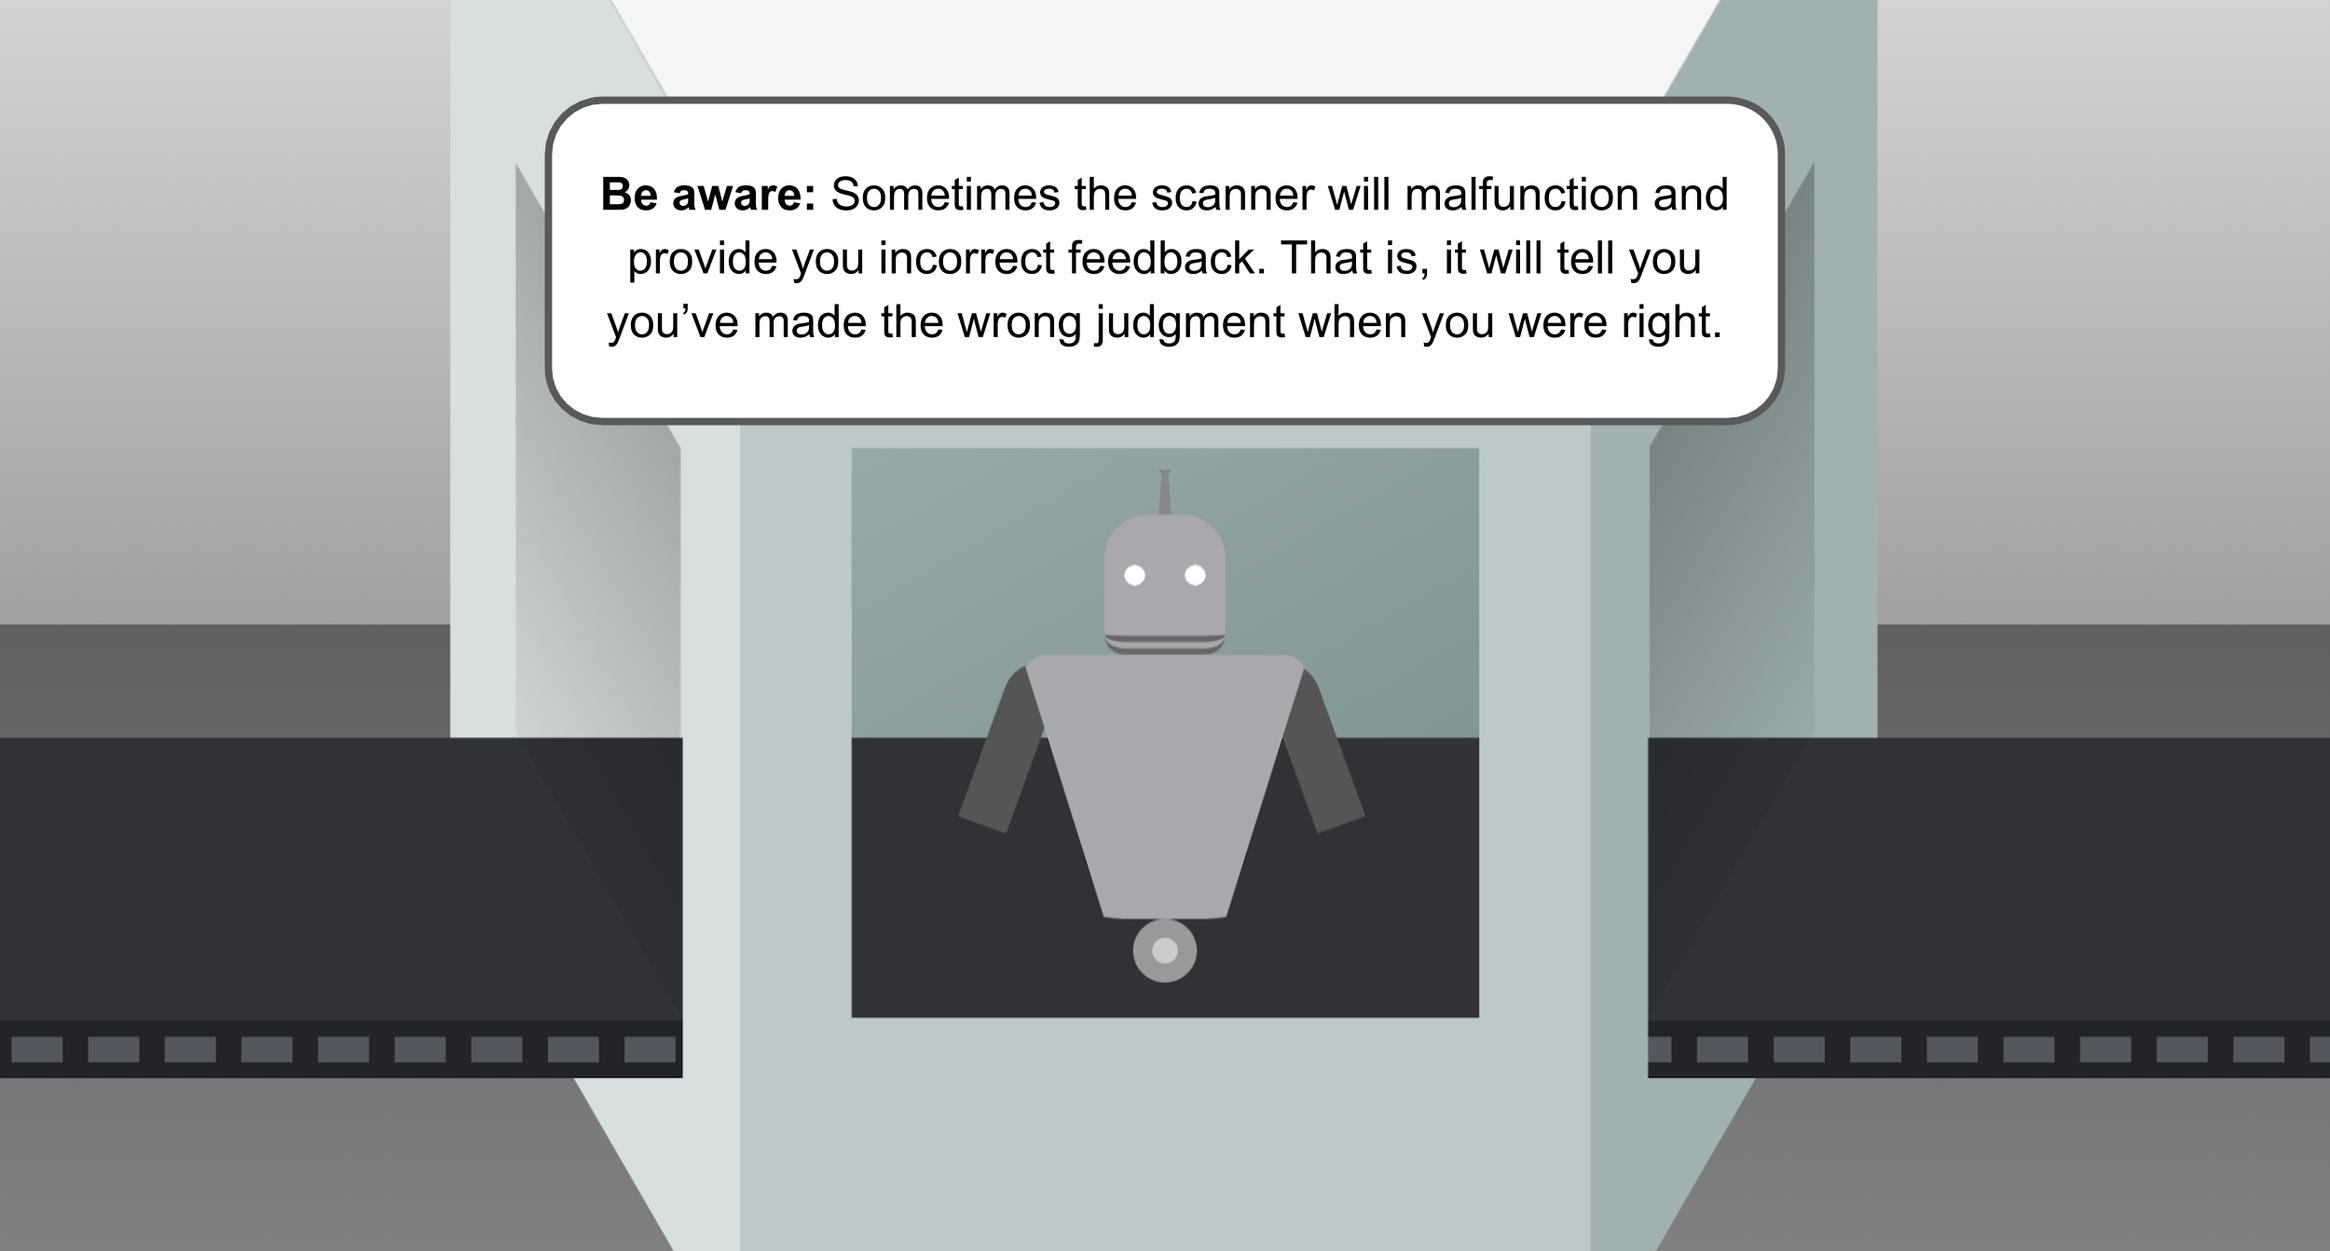
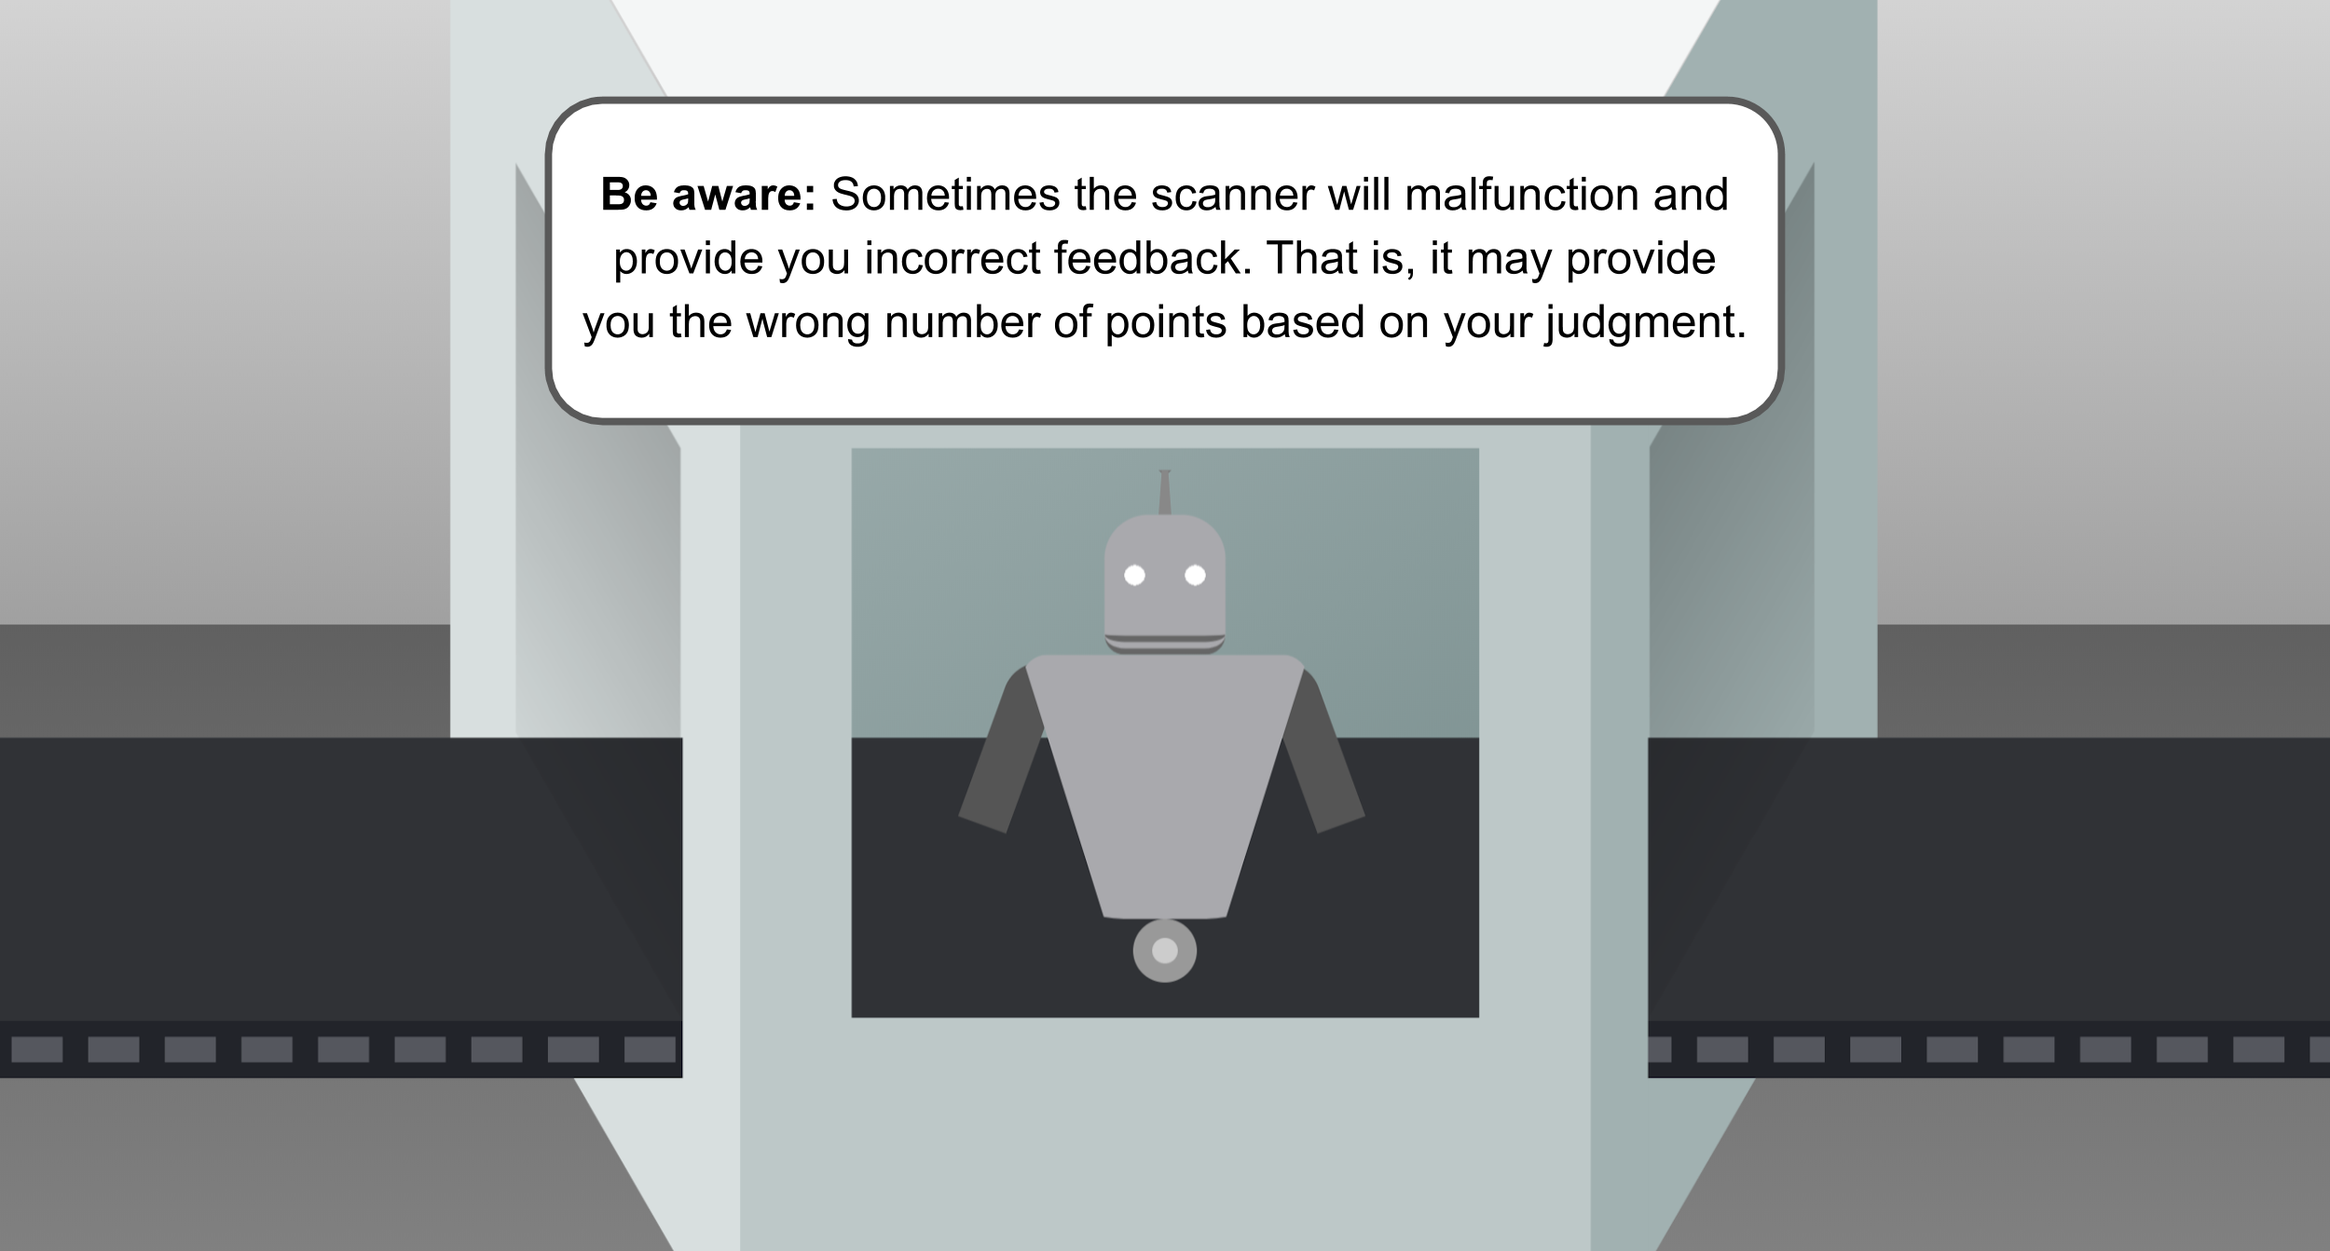
minor fixes: 1) informative readme 2) updated comprehension check (prob feedback) 3) updated emails

Changed region(s): [[0.2496, 0.1832, 0.7488, 0.2748]]

diff --git a/app/static/js/jspsych-pit-comprehension.js b/app/static/js/jspsych-pit-comprehension.js
@@ -6,7 +6,7 @@ jsPsych.plugins['pit-comprehension'] = (function() {
   var plugin = {};
 
   plugin.info = {
-    name: 'survey-multi-choice',
+    name: 'pit-comprehension',
     description: '',
     parameters: {
       button_label: {
@@ -51,7 +51,7 @@ jsPsych.plugins['pit-comprehension'] = (function() {
       -webkit-transform: translate3d(-50%, -65%, 0);
       transform: translate3d(-50%, -65%, 0);
       width: 70vh;
-      height: 45vh;
+      height: 50vh;
       background: #ffffff;
       border: 2px solid black;
       border-radius: 12px;
@@ -117,7 +117,7 @@ jsPsych.plugins['pit-comprehension'] = (function() {
 
     // Show preamble text
     html += '<div class="comprehension-box">'
-    html += '<div class="jspsych-survey-multi-choice-preamble"><h4 style="font-size: 2vh;">Please answer the questions below:</div>';
+    html += '<div class="jspsych-survey-multi-choice-preamble"><h4 style="font-size: 2vh; margin-block-start: 0.5em; margin-block-end: 0.5em">Please answer the questions below:</div>';
 
     // Initialize form element
     html += '<form id="jspsych-survey-multi-choice-form">';
@@ -229,22 +229,48 @@ jsPsych.plugins['pit-comprehension'] = (function() {
     html += '<div id="jspsych-survey-multi-choice-3" class="jspsych-survey-multi-choice-question jspsych-survey-multi-choice-horizontal" data-name="bonus">';
 
     // Add question text
-    html += '<p class="jspsych-survey-multi-choice-text survey-multi-choice">Will the number of points I earn affect performance bonus?</p>';
+    html += '<p class="jspsych-survey-multi-choice-text survey-multi-choice"><i>True</i> or <i>False</i>: the scanner will sometimes malfunction and provide incorrect feedback.</p>';
 
     // Option 1: Yes
     html += '<div id="jspsych-survey-multi-choice-option-3-0" class="jspsych-survey-multi-choice-option">';
-    html += '<input type="radio" name="jspsych-survey-multi-choice-response-3" id="jspsych-survey-multi-choice-response-3-0" value="Yes" required>';
-    html += '<label class="jspsych-survey-multi-choice-text" for="jspsych-survey-multi-choice-response-3-0">Yes</label>';
+    html += '<input type="radio" name="jspsych-survey-multi-choice-response-3" id="jspsych-survey-multi-choice-response-3-0" value="True" required>';
+    html += '<label class="jspsych-survey-multi-choice-text" for="jspsych-survey-multi-choice-response-3-0">True</label>';
     html += '</div>';
 
     // Option 2: No
     html += '<div id="jspsych-survey-multi-choice-option-3-1" class="jspsych-survey-multi-choice-option">';
-    html += '<input type="radio" name="jspsych-survey-multi-choice-response-3" id="jspsych-survey-multi-choice-response-3-1" value="No" required>';
-    html += '<label class="jspsych-survey-multi-choice-text" for="jspsych-survey-multi-choice-response-3-1">No</label>';
+    html += '<input type="radio" name="jspsych-survey-multi-choice-response-3" id="jspsych-survey-multi-choice-response-3-1" value="False" required>';
+    html += '<label class="jspsych-survey-multi-choice-text" for="jspsych-survey-multi-choice-response-3-1">False</label>';
     html += '</div>';
 
     // Close item
     html += '<br><p id="Q4-error"></p>'
+    html += '</div>';
+
+    // ---------------------------------- //
+    // Comprehension Question #5          //
+    // ---------------------------------- //
+
+    // Initialize item
+    html += '<div id="jspsych-survey-multi-choice-4" class="jspsych-survey-multi-choice-question jspsych-survey-multi-choice-horizontal" data-name="bonus">';
+
+    // Add question text
+    html += '<p class="jspsych-survey-multi-choice-text survey-multi-choice">Will the number of points I earn affect performance bonus?</p>';
+
+    // Option 1: Yes
+    html += '<div id="jspsych-survey-multi-choice-option-4-0" class="jspsych-survey-multi-choice-option">';
+    html += '<input type="radio" name="jspsych-survey-multi-choice-response-4" id="jspsych-survey-multi-choice-response-4-0" value="Yes" required>';
+    html += '<label class="jspsych-survey-multi-choice-text" for="jspsych-survey-multi-choice-response-4-0">Yes</label>';
+    html += '</div>';
+
+    // Option 2: No
+    html += '<div id="jspsych-survey-multi-choice-option-4-1" class="jspsych-survey-multi-choice-option">';
+    html += '<input type="radio" name="jspsych-survey-multi-choice-response-4" id="jspsych-survey-multi-choice-response-4-1" value="No" required>';
+    html += '<label class="jspsych-survey-multi-choice-text" for="jspsych-survey-multi-choice-response-4-1">No</label>';
+    html += '</div>';
+
+    // Close item
+    html += '<br><p id="Q5-error"></p>'
     html += '</div>';
 
     // End HTML
@@ -263,6 +289,7 @@ jsPsych.plugins['pit-comprehension'] = (function() {
     const Q2 = document.getElementById("Q2-error");
     const Q3 = document.getElementById("Q3-error");
     const Q4 = document.getElementById("Q4-error");
+    const Q5 = document.getElementById("Q5-error");
     var count = 0;
 
     // Detect changes on first comprehension item
@@ -365,7 +392,7 @@ jsPsych.plugins['pit-comprehension'] = (function() {
       var val = display_element.querySelector('#jspsych-survey-multi-choice-3 input:checked').value;
 
       // Validation
-      if (val === "Yes") {
+      if (val === "True") {
 
         // Update text
         Q4.innerHTML = "";
@@ -374,7 +401,7 @@ jsPsych.plugins['pit-comprehension'] = (function() {
       } else {
 
         // Update text
-        Q4.innerHTML = "That's incorrect. Your bonus will reflect your performance on the task.";
+        Q4.innerHTML = "That's incorrect. The scanner will sometimes provide incorrect feedback.";
         Q4.className = "invalid"
 
         // Restart animation
@@ -389,9 +416,41 @@ jsPsych.plugins['pit-comprehension'] = (function() {
 
     })
 
+
+    // Detect changes on third comprehension item
+    display_element.querySelector('#jspsych-survey-multi-choice-4').addEventListener('change', function(){
+
+      // On change, find which item is checked.
+      var val = display_element.querySelector('#jspsych-survey-multi-choice-4 input:checked').value;
+
+      // Validation
+      if (val === "Yes") {
+
+        // Update text
+        Q5.innerHTML = "";
+        Q5.className = "valid"
+
+      } else {
+
+        // Update text
+        Q5.innerHTML = "That's incorrect. Your bonus will reflect your performance on the task.";
+        Q5.className = "invalid"
+
+        // Restart animation
+        Q5.style.animation = 'none';
+        Q5.offsetHeight; /* trigger reflow */
+        Q5.style.animation = null;
+
+        // Increment error count
+        count += 1;
+
+      }
+
+    })
+
     // Detect if all correct answers
     display_element.addEventListener('change', function(){
-      if (Q1.className === 'valid' && Q2.className === 'valid' && Q3.className === 'valid' && Q4.className === 'valid') {
+      if (Q1.className === 'valid' && Q2.className === 'valid' && Q3.className === 'valid' && Q4.className === 'valid' && Q5.className === 'valid') {
         document.getElementById("jspsych-survey-multi-choice-next").disabled = false;
       } else {
         document.getElementById("jspsych-survey-multi-choice-next").disabled = true;
@@ -408,7 +467,7 @@ jsPsych.plugins['pit-comprehension'] = (function() {
 
       // Gather responses
       var question_data = {};
-      for (var i=0; i<3; i++) {
+      for (var i=0; i<4; i++) {
 
         // Find matching question.
         var match = display_element.querySelector('#jspsych-survey-multi-choice-'+i);

diff --git a/app/static/js/jspsych-survey-debrief.js b/app/static/js/jspsych-survey-debrief.js
@@ -132,11 +132,11 @@ jsPsych.plugins['survey-debrief'] = (function() {
     html += '<div class="row">';
     html += '<div class="debrief-prompt"><label for="country">How difficult was the task?</label></div>';
     html += '<div class="debrief-resp">';
-    html += '<label><input type="radio" name="difficulty" value="1" required>Very easy</label><br>';
-    html += '<label><input type="radio" name="difficulty" value="2" required>Somewhat easy</label><br>';
+    html += '<label><input type="radio" name="difficulty" value="5" required>Very easy</label><br>';
+    html += '<label><input type="radio" name="difficulty" value="4" required>Somewhat easy</label><br>';
     html += '<label><input type="radio" name="difficulty" value="3" required>Neither easy nor hard</label><br>';
-    html += '<label><input type="radio" name="difficulty" value="4" required>Somewhat hard</label><br>';
-    html += '<label><input type="radio" name="difficulty" value="5" required>Very hard</label>';
+    html += '<label><input type="radio" name="difficulty" value="2" required>Somewhat hard</label><br>';
+    html += '<label><input type="radio" name="difficulty" value="1" required>Very hard</label>';
     html += '</div></div>';
     html += '<hr color="#fff">';
 
@@ -144,11 +144,11 @@ jsPsych.plugins['survey-debrief'] = (function() {
     html += '<div class="row">';
     html += '<div class="debrief-prompt"><label for="country">How fun was the task?</label></div>';
     html += '<div class="debrief-resp">';
-    html += '<label><input type="radio" name="fun" value="1" required>Very fun</label><br>';
-    html += '<label><input type="radio" name="fun" value="2" required>Somewhat fun</label><br>';
+    html += '<label><input type="radio" name="fun" value="5" required>Very fun</label><br>';
+    html += '<label><input type="radio" name="fun" value="4" required>Somewhat fun</label><br>';
     html += '<label><input type="radio" name="fun" value="3" required>Neither fun nor boring</label><br>';
-    html += '<label><input type="radio" name="fun" value="4" required>Somewhat boring</label><br>';
-    html += '<label><input type="radio" name="fun" value="5" required>Very boring</label>';
+    html += '<label><input type="radio" name="fun" value="2" required>Somewhat boring</label><br>';
+    html += '<label><input type="radio" name="fun" value="1" required>Very boring</label>';
     html += '</div></div>';
     html += '<hr color="#fff">';
 
@@ -156,11 +156,11 @@ jsPsych.plugins['survey-debrief'] = (function() {
     html += '<div class="row">';
     html += '<div class="debrief-prompt"><label for="country">How clear were the instructions?</label></div>';
     html += '<div class="debrief-resp">';
-    html += '<label><input type="radio" name="clarity" value="1" required>Very clear</label><br>';
-    html += '<label><input type="radio" name="clarity" value="2" required>Somewhat clear</label><br>';
+    html += '<label><input type="radio" name="clarity" value="5" required>Very clear</label><br>';
+    html += '<label><input type="radio" name="clarity" value="4" required>Somewhat clear</label><br>';
     html += '<label><input type="radio" name="clarity" value="3" required>Neither clear nor confusing</label><br>';
-    html += '<label><input type="radio" name="clarity" value="4" required>Somewhat confusing</label><br>';
-    html += '<label><input type="radio" name="clarity" value="5" required>Very confusing</label>';
+    html += '<label><input type="radio" name="clarity" value="2" required>Somewhat confusing</label><br>';
+    html += '<label><input type="radio" name="clarity" value="1" required>Very confusing</label>';
     html += '</div></div>';
     html += '<hr color="#fff">';
 

diff --git a/app/templates/experiment.html b/app/templates/experiment.html
@@ -71,19 +71,19 @@
 
     // Define timeline.
     var timeline = [];
-    timeline = timeline.concat(INSTRUCTIONS_01);
-    timeline = timeline.concat(PRACTICE_GO);
-    timeline = timeline.concat(INSTRUCTIONS_02);
-    timeline = timeline.concat(PRACTICE_NO_GO);
-    timeline = timeline.concat(INSTRUCTIONS_03);
-    timeline = timeline.concat(COMPREHENSION);
-    timeline = timeline.concat(INSTRUCTIONS_04);
-    timeline = timeline.concat(PIT_01);
-    timeline = timeline.concat(QUALITY_CHECK);
-    timeline = timeline.concat(PAUSE);
-    timeline = timeline.concat(PIT_02);
-    timeline = timeline.concat(DEMO);
-    timeline = timeline.concat(DEBRIEF);
+    timeline = timeline.concat(INSTRUCTIONS_01);    // Instructions (part 1)
+    timeline = timeline.concat(PRACTICE_GO);        // Practice (go trials)
+    timeline = timeline.concat(INSTRUCTIONS_02);    // Instructions (part 2)
+    timeline = timeline.concat(PRACTICE_NO_GO);     // Practice (no-go trials)
+    timeline = timeline.concat(INSTRUCTIONS_03);    // Instructions (part 3)
+    timeline = timeline.concat(COMPREHENSION);      // Comprehension check
+    timeline = timeline.concat(INSTRUCTIONS_04);    // Instructions (part 4)
+    timeline = timeline.concat(PIT_01);             // PIT task (block 1)
+    timeline = timeline.concat(QUALITY_CHECK);      // Quality check (implicit)
+    timeline = timeline.concat(PAUSE);              // Break screen
+    timeline = timeline.concat(PIT_02);             // PIT task (block 2)
+    timeline = timeline.concat(DEMO);               // Demographics form
+    timeline = timeline.concat(DEBRIEF);            // Debriefing form
 
     jsPsych.init({
         timeline: timeline,

diff --git a/app/templates/error.html b/app/templates/error.html
@@ -38,7 +38,7 @@
 
         <p>Sorry, our records indicate that you have already completed (or attempted to complete) this HIT. Because this is a psychology experiment, you can only complete this HIT once. Please return the HIT so someone else can perform the experiment.</p>
 
-        <p>If you would like to receive partial compensation, or feel you have reached this page in error, please email <a href="mailto:ccnp.turk@gmail.com">ccnp.turk@gmail.com</a> and send the following information: <b>Error {{ errornum }}</b>.</p>
+        <p>If you would like to receive partial compensation, or feel you have reached this page in error, please email <a href="mailto:ccnp.turk2@gmail.com">ccnp.turk2@gmail.com</a> and send the following information: <b>Error {{ errornum }}</b>.</p>
 
         {% elif errornum == 1011 %}
 
@@ -49,7 +49,7 @@
 
         <p>Sorry, there was an unexpected error in our processing of your HIT.</p>
 
-        <p>If you would like to receive partial compensation, or feel you have reached this page in error, please email <a href="mailto:ccnp.turk@gmail.com">ccnp.turk@gmail.com</a> and send the following information: <b>Error {{ errornum }}</b>.</p>
+        <p>If you would like to receive partial compensation, or feel you have reached this page in error, please email <a href="mailto:ccnp.turk2@gmail.com">ccnp.turk2@gmail.com</a> and send the following information: <b>Error {{ errornum }}</b>.</p>
 
         {% endif %}
 

diff --git a/app/templates/consent.html b/app/templates/consent.html
@@ -51,7 +51,7 @@ The consent.html displays the text of an IRB-approved consent form.
             Please save a copy of this information in case you have any questions about this research project.
           </p>
           <p>
-            If you should have any technical problems either during the experiment or with approval/bonus payout afterwards, please email <a href="mailto:ccnp.turk@gmail.com">ccnp.turk@gmail.com</a> or call (609) 258-8179.
+            If you should have any technical problems either during the experiment or with approval/bonus payout afterwards, please email <a href="mailto:ccnp.turk2@gmail.com">ccnp.turk2@gmail.com</a> or call (609) 258-8179.
           </p>
           <ol>
             <li>TITLE OF RESEARCH: Behavioral Studies of Learning and Decision Making</li>

diff --git a/README.rst b/README.rst
@@ -1,0 +1,28 @@
+NotoriousPIT
+============
+
+This is the jsPsych experiment branch for the robot factory PIT task.
+
+Quickstart
+^^^^^^^^^^
+
+The following is the minimal set of commands needed to get started:
+
+.. code-block:: bash
+
+    ssh <user-name>@<server-name>.princeton.edu
+    git clone https://github.com/szorowi1/NotoriousPIT.git --single-branch --branch experiment
+    cd NotoriousPIT
+    pip install -r requirements.txt
+    gunicorn -b 0.0.0.0:9000 -w 4 app:app
+
+Wiki
+^^^^
+
+For details on how to serve the experiment, how the code is organized, and how data is stored, please see the `Wiki <https://github.com/nivlab/nivturk/wiki>`_.
+
+Attributions
+^^^^^^^^^^^^
+
+- The original factory CSS designed by Nathan Taylor: https://codepen.io/nathantaylor/pen/MJeXmN
+- The original robot CSS designed by Febby Gunawan: https://codepen.io/febby_gunawan/pen/BDjvk
